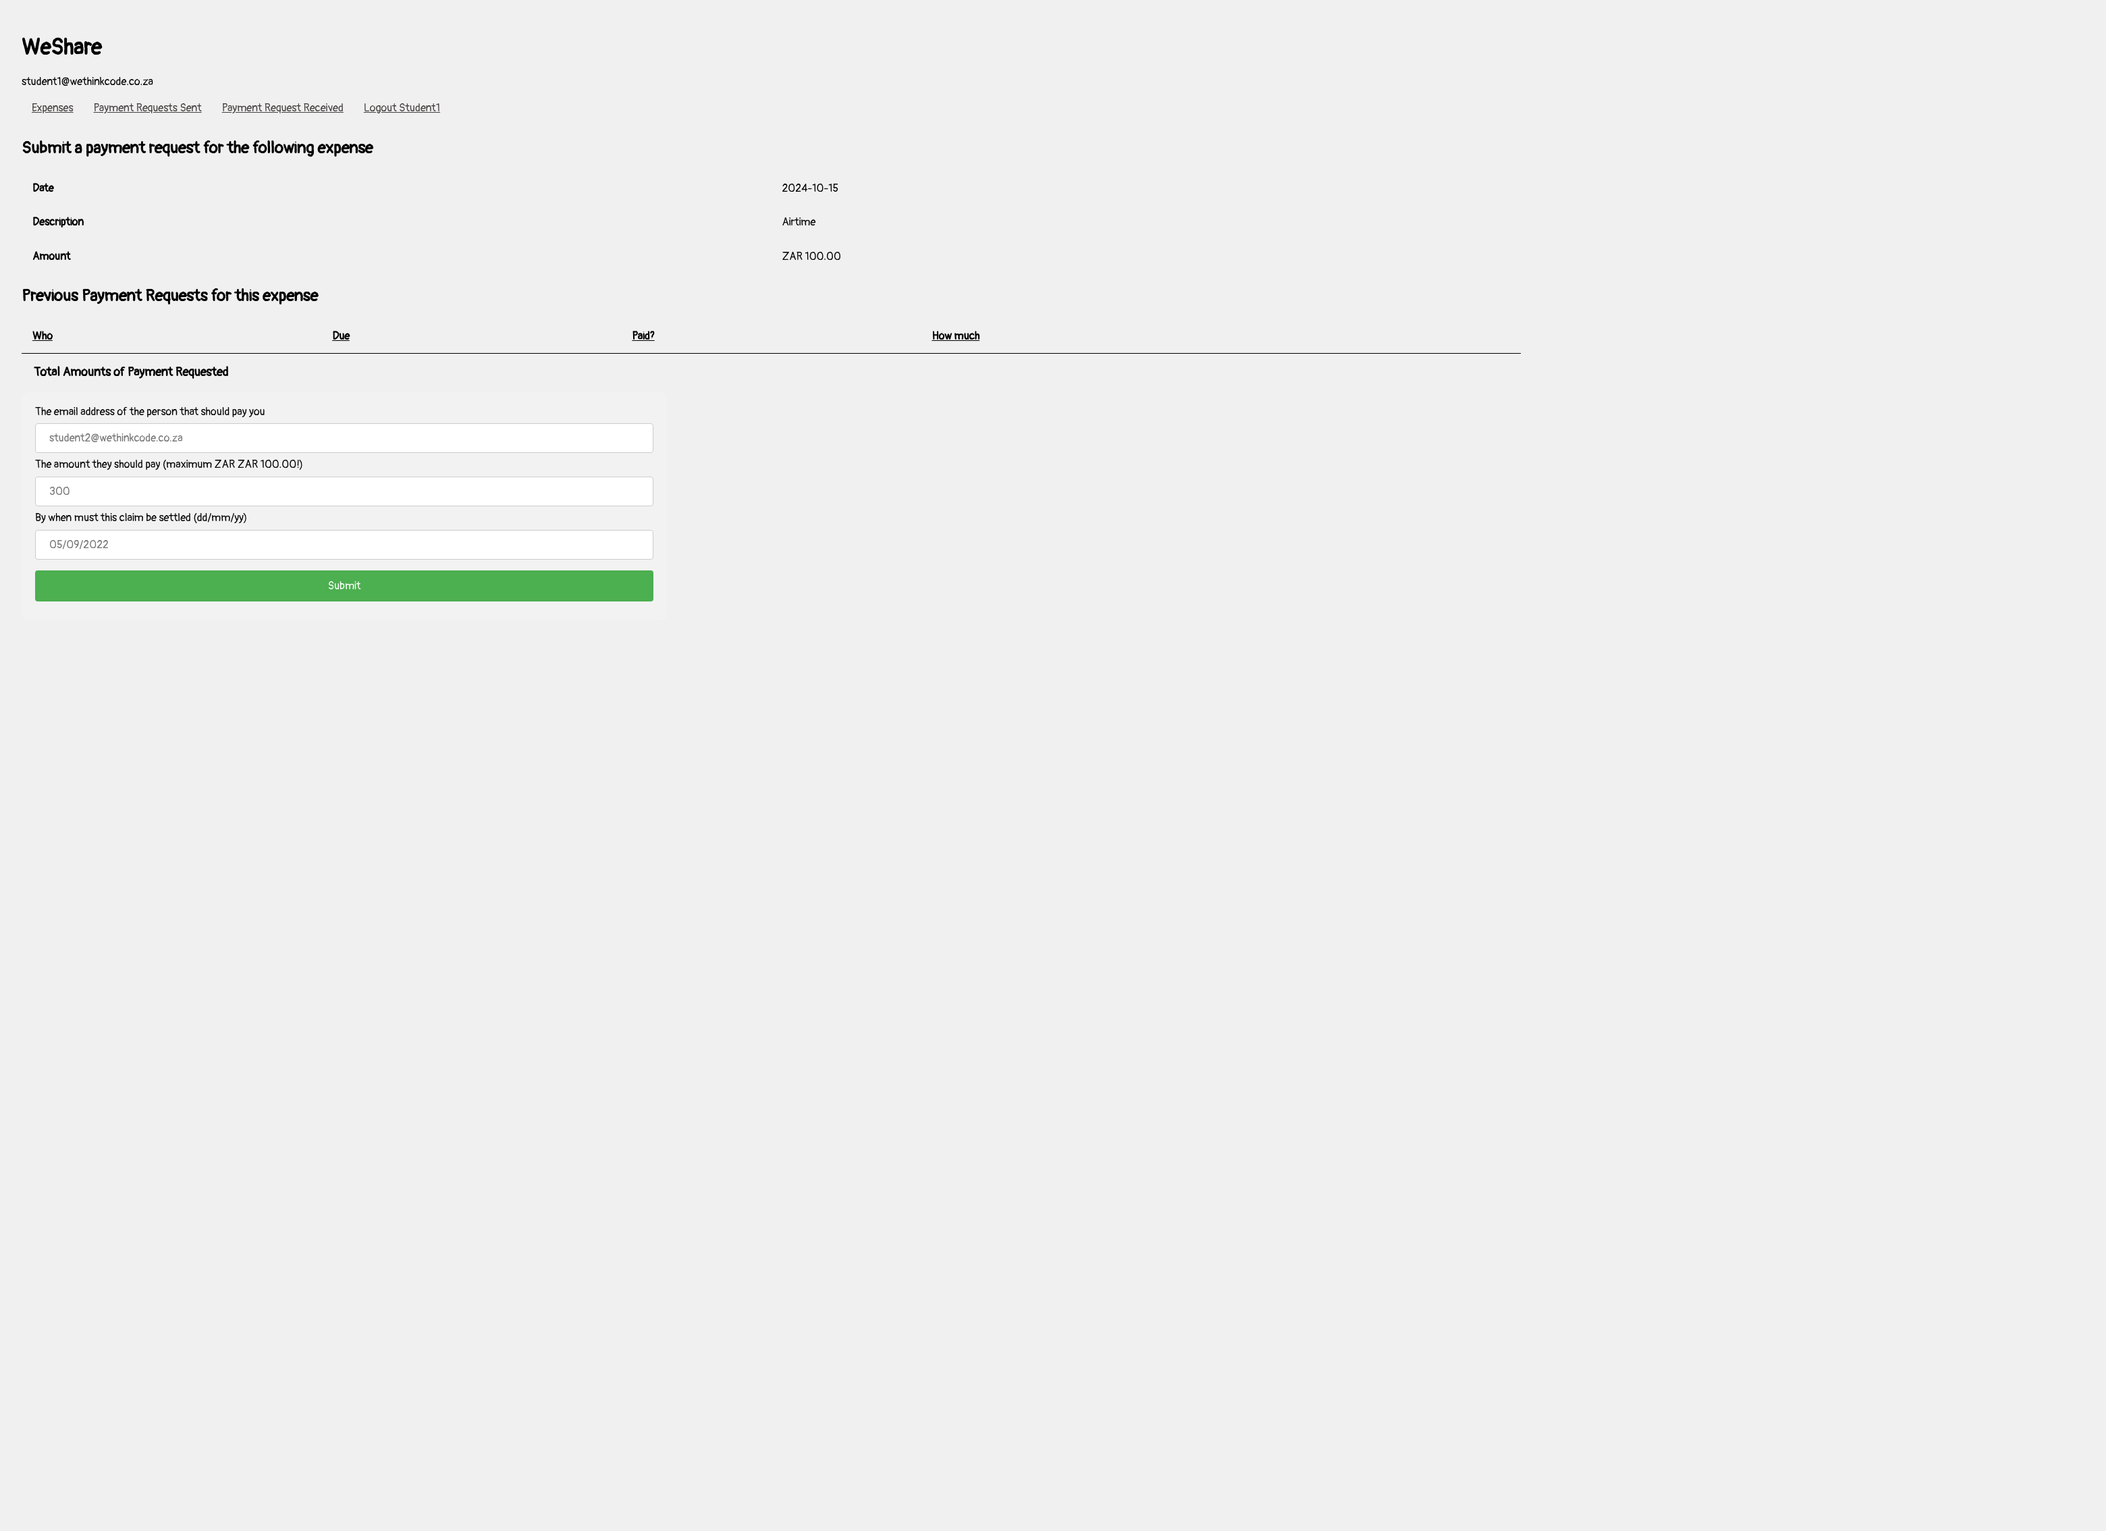
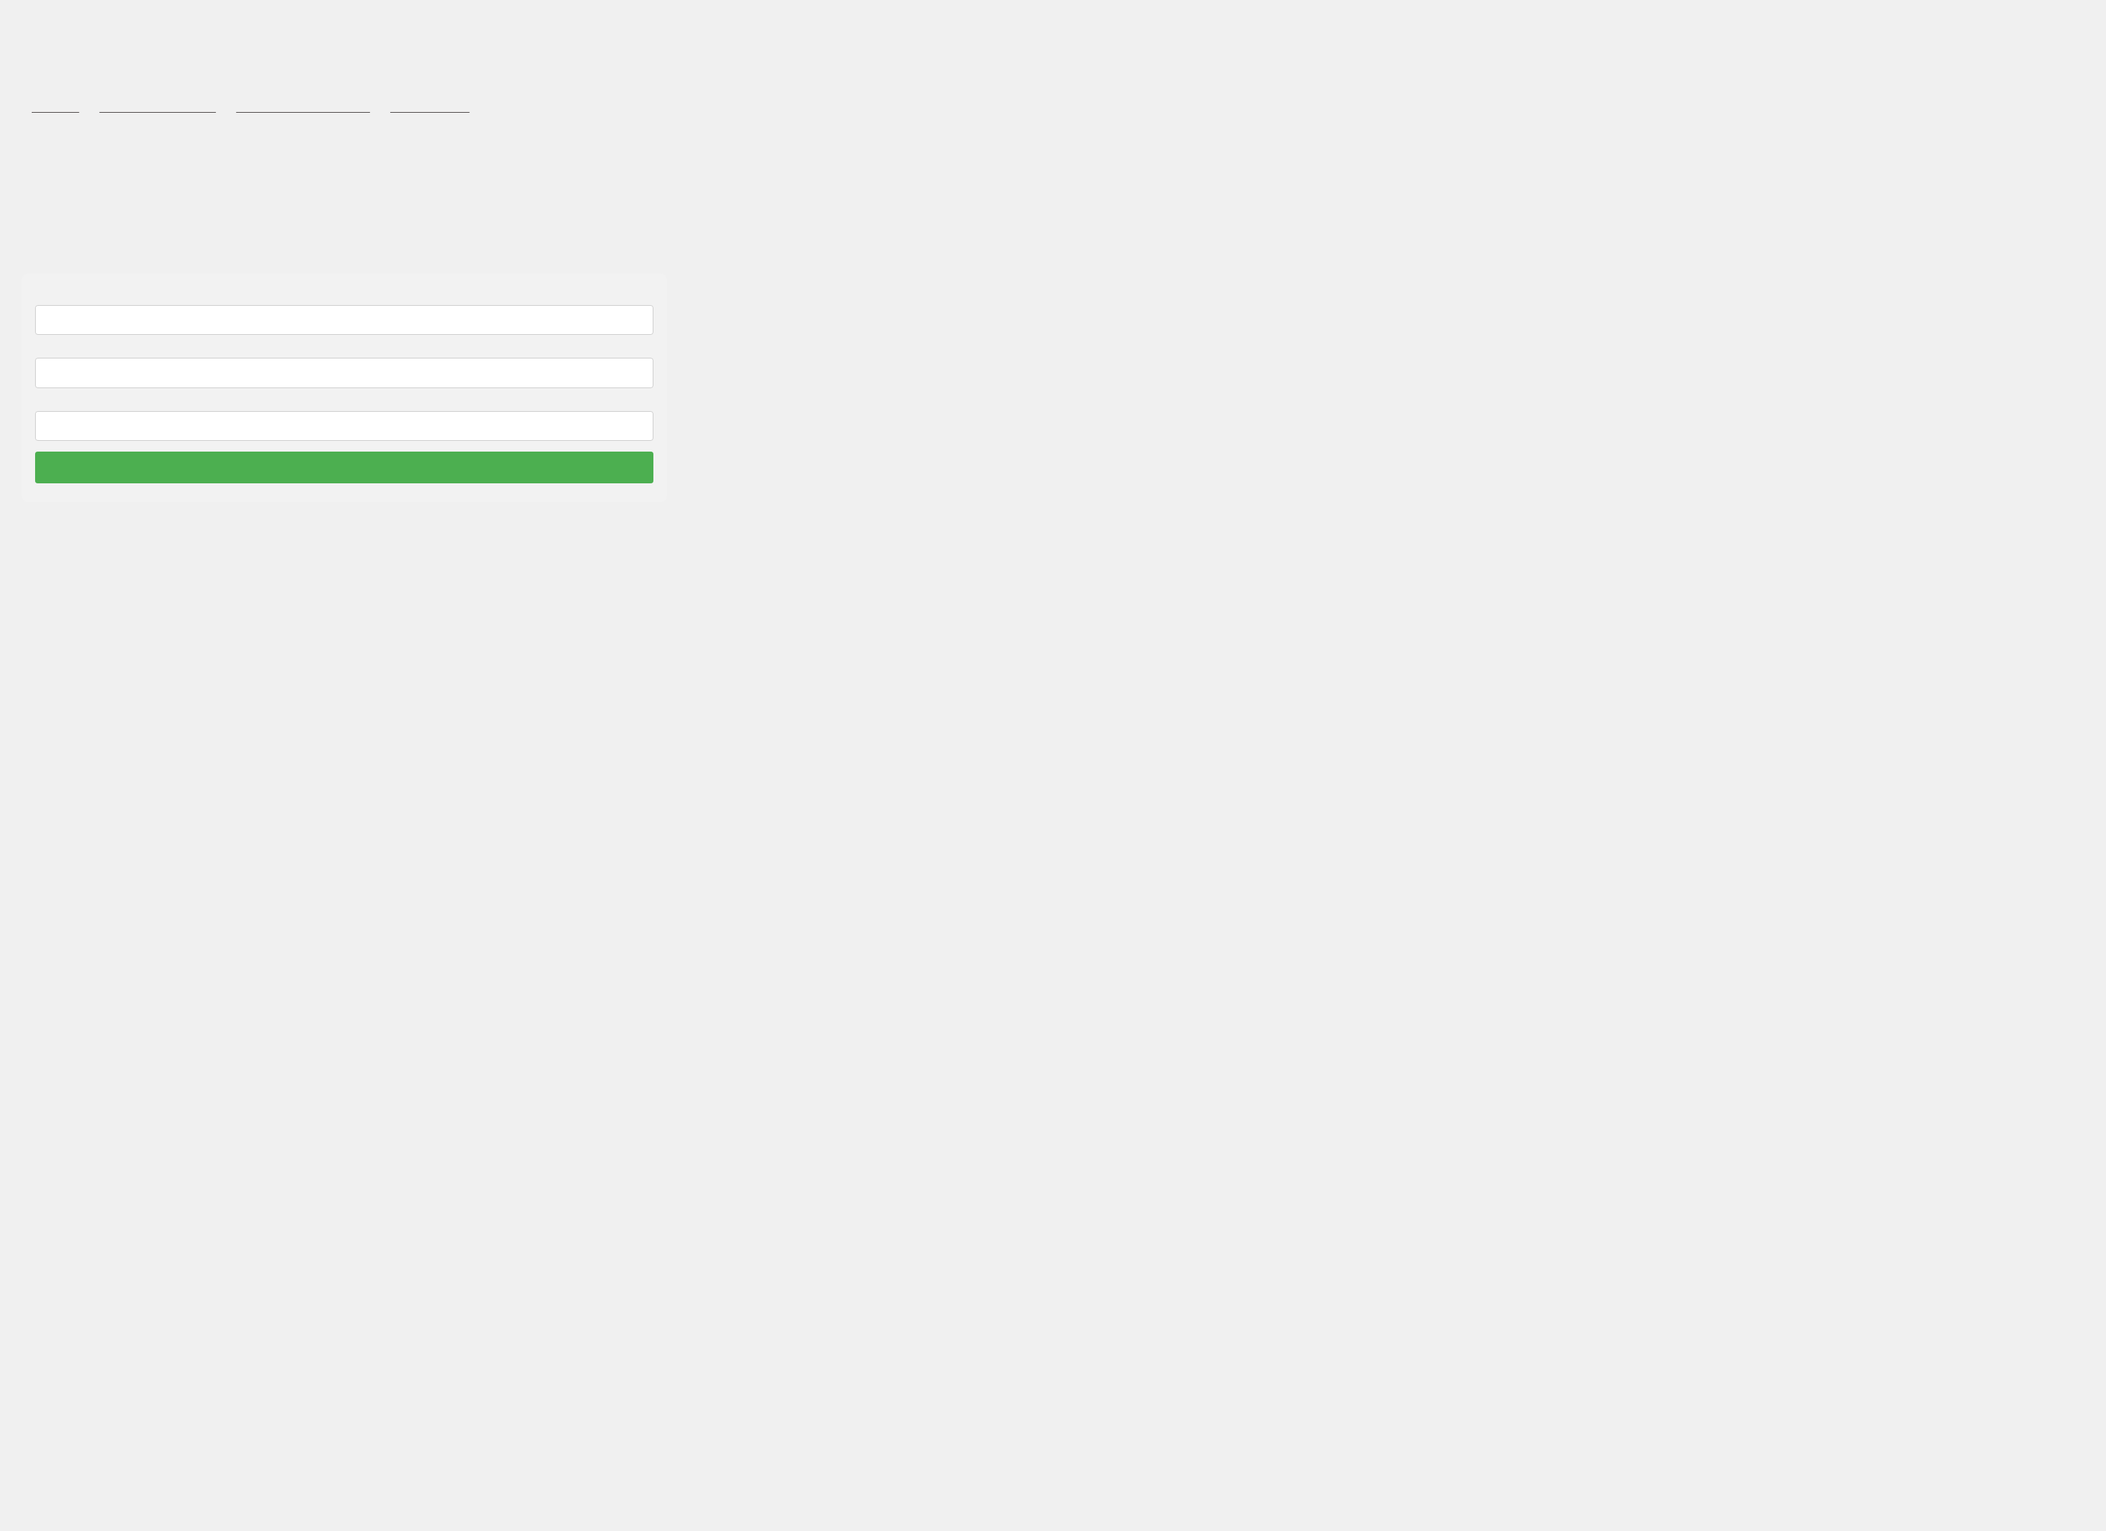
Final push

diff --git a/src/main/resources/templates/paymentrequest.html b/src/main/resources/templates/paymentrequest.html
@@ -27,9 +27,9 @@
         </tr>
     </table>
 
-    <h2>Previous Payment Requests for this expense</h2>
 
-    <table th:if="${expense != null}">
+    <table th:if="${!#lists.isEmpty(requests)}">
+        <h2>Previous Payment Requests for this expense</h2>
         <thead>
         <tr>
             <th>Who</th>
@@ -48,7 +48,7 @@
                 <span th:if="${request.isPaid}" >Yes</span>
                 <span th:if="${!request.isPaid}">No</span>
             </td>
-            <td th:id="'paymentrequest_amount_'+${expense.id}" th:text="${request.amountToPay}"> </td>
+            <td th:id="'paymentrequest_amount_'+${request.id}" th:text="${request.amountToPay}"> </td>
         </tr>
         </tbody>
 
@@ -62,11 +62,11 @@
         </tfoot>
     </table>
 
-    <form action="/payment.action" method="post" class="expense-form">
+    <form th:action="@{/paymentrequest(expenseId=${expense.id})}" method="post" class="expense-form">
         <label for="email">The email address of the person that should pay you</label>
         <input type="text" id="email" name="email" placeholder="student2@wethinkcode.co.za" required/>
 
-        <label for="amount">The amount they should pay (maximum ZAR <span th:text="${expense.amount}"/>!)</label>
+        <label for="amount">The amount they should pay (maximum <span th:text="${expense.amount}"/>!)</label>
         <input type="number" id="amount" name="amount" placeholder="300" required/>
 
         <label for="due_date">By when must this claim be settled (dd/mm/yy)</label>

diff --git a/target/classes/templates/paymentrequest.html b/target/classes/templates/paymentrequest.html
@@ -27,9 +27,9 @@
         </tr>
     </table>
 
-    <h2>Previous Payment Requests for this expense</h2>
 
-    <table th:if="${expense != null}">
+    <table th:if="${!#lists.isEmpty(requests)}">
+        <h2>Previous Payment Requests for this expense</h2>
         <thead>
         <tr>
             <th>Who</th>
@@ -48,7 +48,7 @@
                 <span th:if="${request.isPaid}" >Yes</span>
                 <span th:if="${!request.isPaid}">No</span>
             </td>
-            <td th:id="'paymentrequest_amount_'+${expense.id}" th:text="${request.amountToPay}"> </td>
+            <td th:id="'paymentrequest_amount_'+${request.id}" th:text="${request.amountToPay}"> </td>
         </tr>
         </tbody>
 
@@ -62,11 +62,11 @@
         </tfoot>
     </table>
 
-    <form action="/payment.action" method="post" class="expense-form">
+    <form th:action="@{/paymentrequest(expenseId=${expense.id})}" method="post" class="expense-form">
         <label for="email">The email address of the person that should pay you</label>
         <input type="text" id="email" name="email" placeholder="student2@wethinkcode.co.za" required/>
 
-        <label for="amount">The amount they should pay (maximum ZAR <span th:text="${expense.amount}"/>!)</label>
+        <label for="amount">The amount they should pay (maximum <span th:text="${expense.amount}"/>!)</label>
         <input type="number" id="amount" name="amount" placeholder="300" required/>
 
         <label for="due_date">By when must this claim be settled (dd/mm/yy)</label>

diff --git a/src/main/resources/templates/paymentrequests_received.html b/src/main/resources/templates/paymentrequests_received.html
@@ -14,7 +14,7 @@
 
     <p th:id="no_payment_requests_received" th:if="${#lists.isEmpty(payments)}">You don't owe anyone anything!</p>
 
-    <table th:if="${!#lists.isEmpty(payments)}">
+    <table th:unless="${#lists.isEmpty(payments)}">
         <thead>
         <tr>
             <th>Who</th>
@@ -32,20 +32,22 @@
             <td th:text="${payment.daysLeftToPay()}">4</td>
             <td th:text="${payment.amountToPay}"> ZAR 150.00</td>
             <td>
+
+                <span  th:if="${payment.isPaid}" id="paid_1">&#10003;</span>
                 <!-- Check if the payment is not paid and display Pay button -->
-                <form th:if="${!payment.isPaid}" action="/paymentrequests_received" method="POST">
+                <form  th:if="${!payment.isPaid}" action="/paymentrequests_received" method="POST">
                     <input type="hidden" th:value="${payment.id}" name="paymentId">
                     <input id="submit" type="submit" value="Pay"/>
                 </form>
 
-                <span th:id="paid_1" th:if="${payment.isPaid}">&#10003;</span>
+
             </td>
         </tr>
         </tbody>
 
         <tfoot>
         <tr>
-            <td colspan="5">Total Unpaid</td>
+            <td colspan="3">Total Unpaid</td>
             <td id="grand_total" th:text="${totalAmount}"> </td>
         </tr>
         </tfoot>

diff --git a/target/classes/templates/paymentrequests_received.html b/target/classes/templates/paymentrequests_received.html
@@ -14,7 +14,7 @@
 
     <p th:id="no_payment_requests_received" th:if="${#lists.isEmpty(payments)}">You don't owe anyone anything!</p>
 
-    <table th:if="${!#lists.isEmpty(payments)}">
+    <table th:unless="${#lists.isEmpty(payments)}">
         <thead>
         <tr>
             <th>Who</th>
@@ -32,20 +32,22 @@
             <td th:text="${payment.daysLeftToPay()}">4</td>
             <td th:text="${payment.amountToPay}"> ZAR 150.00</td>
             <td>
+
+                <span  th:if="${payment.isPaid}" id="paid_1">&#10003;</span>
                 <!-- Check if the payment is not paid and display Pay button -->
-                <form th:if="${!payment.isPaid}" action="/paymentrequests_received" method="POST">
+                <form  th:if="${!payment.isPaid}" action="/paymentrequests_received" method="POST">
                     <input type="hidden" th:value="${payment.id}" name="paymentId">
                     <input id="submit" type="submit" value="Pay"/>
                 </form>
 
-                <span th:id="paid_1" th:if="${payment.isPaid}">&#10003;</span>
+
             </td>
         </tr>
         </tbody>
 
         <tfoot>
         <tr>
-            <td colspan="5">Total Unpaid</td>
+            <td colspan="3">Total Unpaid</td>
             <td id="grand_total" th:text="${totalAmount}"> </td>
         </tr>
         </tfoot>

diff --git a/src/main/resources/templates/expenses.html b/src/main/resources/templates/expenses.html
@@ -13,7 +13,7 @@
         <a th:id="add_expense" th:href="@{/newexpense}">Add a new expense</a>
 
         <!-- Message if no expenses exist -->
-        <p th:id="no_expenses" th:if="${!hasUnpaidExpenses || #lists.isEmpty(expenses)}">You don't have any expenses!</p>
+        <p th:id="no_expenses" th:if="${#lists.isEmpty(expenses)}">You don't have any expenses!</p>
 
         <!-- Table format for listing expenses -->
         <table th:if="${!#lists.isEmpty(expenses)}">

diff --git a/target/classes/templates/expenses.html b/target/classes/templates/expenses.html
@@ -13,7 +13,7 @@
         <a th:id="add_expense" th:href="@{/newexpense}">Add a new expense</a>
 
         <!-- Message if no expenses exist -->
-        <p th:id="no_expenses" th:if="${!hasUnpaidExpenses || #lists.isEmpty(expenses)}">You don't have any expenses!</p>
+        <p th:id="no_expenses" th:if="${#lists.isEmpty(expenses)}">You don't have any expenses!</p>
 
         <!-- Table format for listing expenses -->
         <table th:if="${!#lists.isEmpty(expenses)}">

diff --git a/src/main/resources/templates/paymentrequests_sent.html b/src/main/resources/templates/paymentrequests_sent.html
@@ -35,7 +35,7 @@
 
         <tfoot>
         <tr>
-            <td colspan="5">Total Unpaid</td>
+            <td colspan="3">Total Unpaid</td>
             <td th:id="grand_total" th:text="${totalAmount}"> </td>
         </tr>
         </tfoot>

diff --git a/target/classes/templates/paymentrequests_sent.html b/target/classes/templates/paymentrequests_sent.html
@@ -35,7 +35,7 @@
 
         <tfoot>
         <tr>
-            <td colspan="5">Total Unpaid</td>
+            <td colspan="3">Total Unpaid</td>
             <td th:id="grand_total" th:text="${totalAmount}"> </td>
         </tr>
         </tfoot>

diff --git a/src/main/java/weshare/controller/ExpensesController.java b/src/main/java/weshare/controller/ExpensesController.java
@@ -8,6 +8,7 @@ import weshare.model.MoneyHelper;
 import weshare.model.PaymentRequest;
 import weshare.model.Person;
 import weshare.persistence.ExpenseDAO;
+import weshare.persistence.PersonDAO;
 import weshare.server.ServiceRegistry;
 import weshare.server.WeShareServer;
 
@@ -17,6 +18,7 @@ import java.time.LocalDate;
 import java.time.format.DateTimeFormatter;
 import java.time.format.DateTimeParseException;
 import java.util.*;
+import java.util.stream.Collectors;
 
 public class ExpensesController {
 
@@ -24,8 +26,10 @@ public class ExpensesController {
         ExpenseDAO expensesDAO = ServiceRegistry.lookup(ExpenseDAO.class);
         Person personLoggedIn = WeShareServer.getPersonLoggedIn(context);
 
+        Collection<Expense> expenses = (expensesDAO.findExpensesForPerson(personLoggedIn)).stream()
+                .filter(expense -> !expense.isFullyPaidByOthers())
+                .collect(Collectors.toList());
 
-        Collection<Expense> expenses = expensesDAO.findExpensesForPerson(personLoggedIn);
         MonetaryAmount totalAmount = expenses.stream()
                 .map(Expense::getAmount) // Get the MonetaryAmount
                 .reduce(MonetaryFunctions.sum()) // Sum the amounts
@@ -45,6 +49,8 @@ public class ExpensesController {
         );
 
         context.render("expenses.html", viewModel);
+
+        System.out.println(personLoggedIn);
     };
 
 
@@ -113,6 +119,7 @@ public class ExpensesController {
                 "requests", payment_requests
 
         );
+        System.out.println(payment_requests);
 
         context.render("paymentrequest.html", viewModel);
     };
@@ -173,24 +180,84 @@ public class ExpensesController {
         // Access the DAO (Data Access Object) to interact with expenses
         ExpenseDAO expensesDAO = ServiceRegistry.lookup(ExpenseDAO.class);
 
-        // Retrieve the expense ID from the query parameters and parse it into a UUID
-        UUID expenseId = UUID.fromString(context.queryParam("expenseId"));
+        // Retrieve the expense ID from the form parameters and parse it into a UUID
+        UUID paymentId = UUID.fromString(context.formParam("paymentId"));
+        Person personLoggedIn = WeShareServer.getPersonLoggedIn(context);
 
-        // Fetch the corresponding expense object from the database using the expense ID
-        Expense expense = expensesDAO.get(expenseId).get();
+        Collection<PaymentRequest> payment_received = expensesDAO.findPaymentRequestsReceived(personLoggedIn);
+        PaymentRequest matchingRequest = null;
+        for (PaymentRequest paymentRequest : payment_received) {
+            if (paymentRequest.getId().equals(paymentId)) {
+                matchingRequest = paymentRequest;
+                break; // Exit loop once the match is found
+            }
+        }
 
-        // Calculate the total payment request by subtracting the requested amount from the total amount
-        long totalPaymentRequest = expense.getAmount().getNumber().intValueExact() -
-                expense.totalAmountOfPaymentsRequested().getNumber().intValueExact();
+        Expense expense = matchingRequest.getExpense();
+        matchingRequest.pay(personLoggedIn, LocalDate.now());
 
-        // Create a view model to pass the data to the HTML template
-        HashMap<String, Object> viewModel = new HashMap<>();
-        viewModel.put("expense", expense);
-        viewModel.put("payments", expense.listOfPaymentRequests());
-        viewModel.put("total_paymentrequest", MoneyHelper.amountOf(totalPaymentRequest));
+        String description = expense.getDescription();
+        Expense newExpense = new Expense(personLoggedIn, description, matchingRequest.getAmountToPay(), LocalDate.now());
+        expensesDAO.save(newExpense);
+
+        // Calculate the total payment request
+//        long totalPaymentRequest = expense.getAmount().getNumber().intValueExact() -
+//                expense.totalAmountOfPaymentsRequested().getNumber().intValueExact();
+//
+//        // Create a view model to pass the data to the HTML template
+//        HashMap<String, Object> viewModel = new HashMap<>();
+//        viewModel.put("expense", expense);
+//        viewModel.put("payments", expense.listOfPaymentRequests());
+//        viewModel.put("total_paymentrequest", MoneyHelper.amountOf(totalPaymentRequest));
 
         // Render the template and pass the view model data to it
-        context.render("paymentrequest.html", viewModel);
+        context.redirect("/paymentrequests_received");
     };
+
+
+    public static Handler send_request = context -> {
+        // Retrieve the necessary form parameters from the request
+        String expenseId = context.queryParam("expenseId");
+        String email = context.formParam("email");
+        String amountStr = context.formParam("amount");
+        String dueDateStr = context.formParam("date");
+
+        // Access the DAO to interact with expenses and persons
+        ExpenseDAO expensesDAO = ServiceRegistry.lookup(ExpenseDAO.class);
+        PersonDAO personDAO = ServiceRegistry.lookup(PersonDAO.class);
+
+        // Retrieve the expense based on the expense ID
+        Expense expense = expensesDAO.get(UUID.fromString(expenseId)).orElseThrow(() -> new RuntimeException("Expense not found"));
+
+        // Find the person who should pay back based on the email
+        Person personWhoShouldPayBack = personDAO.findPersonByEmail(email).orElseThrow(() -> new RuntimeException("Person not found"));
+
+        // Parse the amount from the form input
+        MonetaryAmount amountToPay = Monetary.getDefaultAmountFactory()
+                .setCurrency("ZAR")
+                .setNumber(Double.parseDouble(amountStr))
+                .create();
+
+        // Parse the due date from the form input
+        LocalDate dueDate;
+        try {
+            DateTimeFormatter formatter = DateTimeFormatter.ofPattern("dd/MM/yyyy");
+            dueDate = LocalDate.parse(dueDateStr, formatter);
+        } catch (DateTimeParseException e) {
+            // Handle invalid date input
+            context.render("/exception.html");
+            return;
+        }
+
+        // Create a new payment request
+        expense.requestPayment(personWhoShouldPayBack, amountToPay, dueDate);
+
+        // Save the updated expense with the new payment request
+        expensesDAO.save(expense);
+
+        // Reload the page or redirect after the payment request is created
+        context.redirect("/paymentrequest?expenseId=" + expenseId);
+    };
+
 
 }

diff --git a/src/main/java/weshare/server/Routes.java b/src/main/java/weshare/server/Routes.java
@@ -28,6 +28,7 @@ public class Routes {
             get(PAYMENT_RECEIVED, ExpensesController.payment_received);
             get(PAYMENT_REQUEST,    ExpensesController.payment_request);
             post(PAYMENT_RECEIVED ,    ExpensesController.send_payment);
+            post(PAYMENT_REQUEST,   ExpensesController.send_request);
         });
     }
 }
